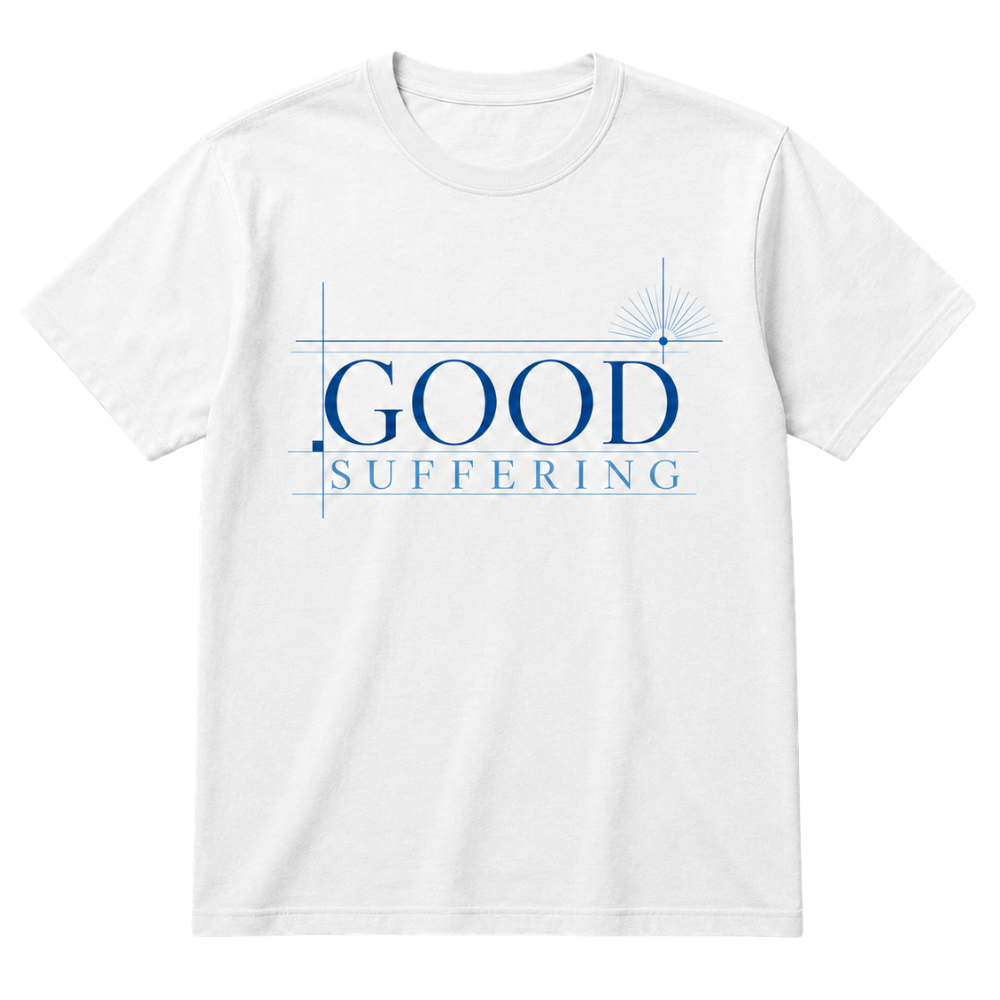
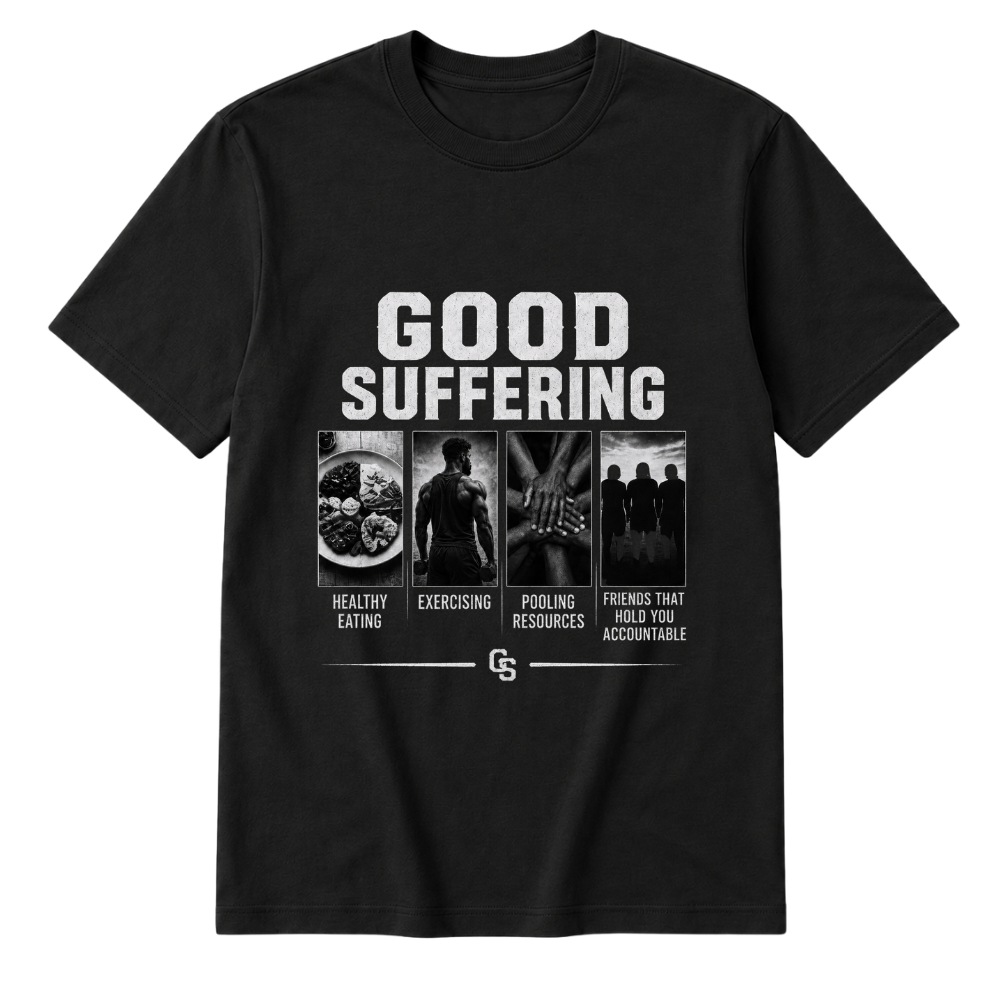
Replace Good Suffering apparel image

diff --git a/index.html b/index.html
@@ -163,7 +163,7 @@
           </article>
           <article class="book-card apparel-card">
             <div class="apparel-placeholder-frame apparel-image-frame">
-              <img src="assets/apparel-good-suffering-shirt-final.png" alt="White Good Suffering t-shirt">
+              <img src="assets/apparel-good-suffering-shirt-final.png" alt="Black Good Suffering t-shirt">
             </div>
             <h3>Good Suffering</h3>
           </article>